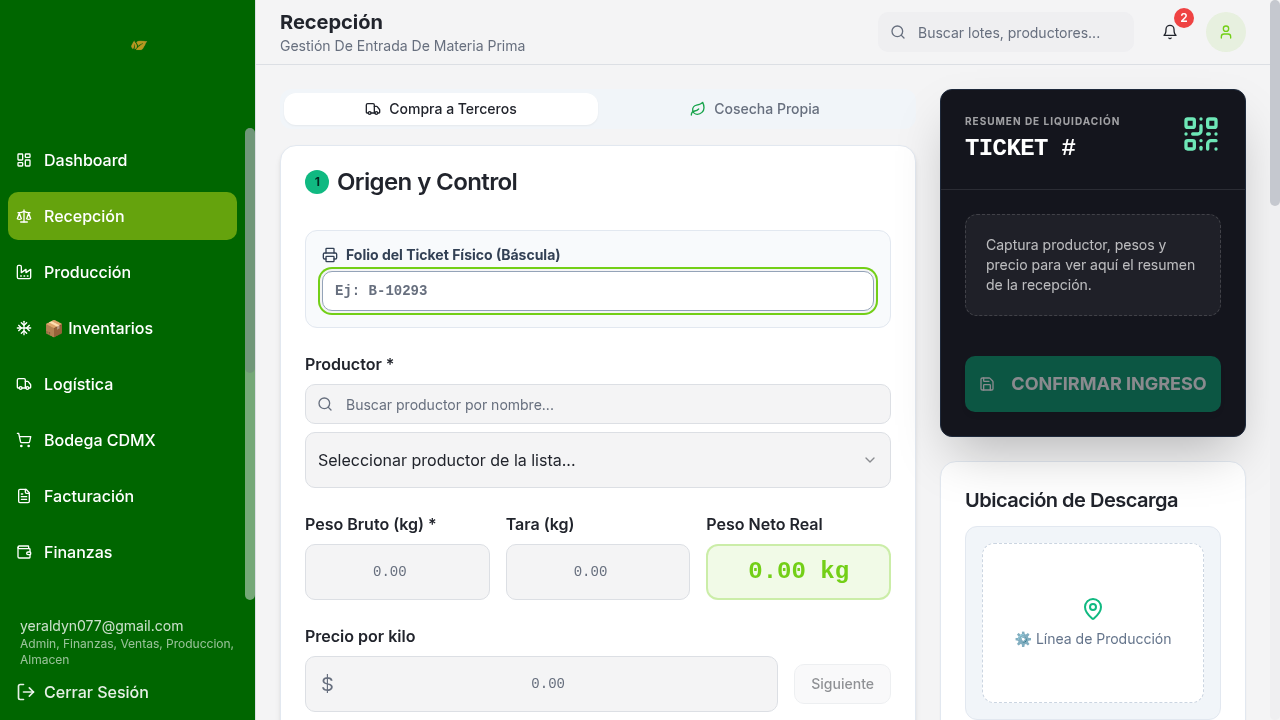
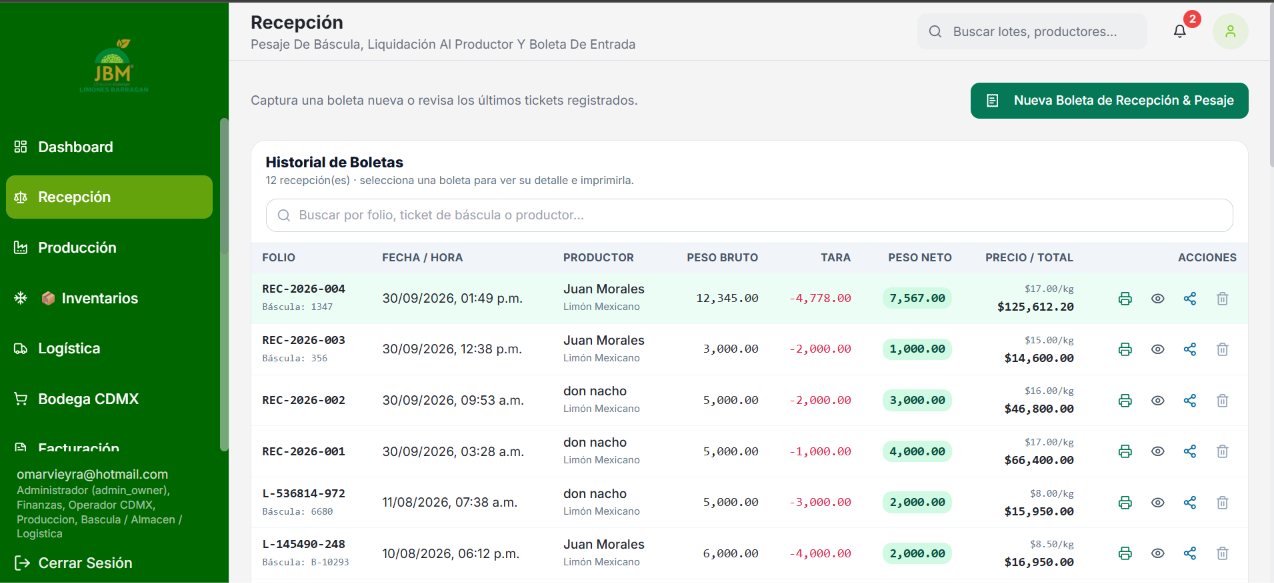
Can12QR

diff --git a/src/pages/Logistica.tsx b/src/pages/Logistica.tsx
@@ -28,6 +28,7 @@ import {
   Users, CheckCircle, Clock, Filter, ArrowRight, DollarSign, UserPlus
 } from "lucide-react";
 import { cn } from "@/lib/utils";
+import { urlCartaPorte } from "@/lib/urls";
 import { useToast } from "@/hooks/use-toast";
 import {
   DropdownMenu,
@@ -628,7 +629,7 @@ export default function Logistica() {
       await new Promise(resolve => setTimeout(resolve, 1500));
 
       const nuevoFolio = `CP-${format(new Date(), 'yyyy')}-${Math.floor(Math.random() * 10000).toString().padStart(4, '0')}`;
-      const cartaPorteQrUrl = `https://erp.jbm.com.mx/logistica/carta-porte/${encodeURIComponent(nuevoFolio)}`;
+      const cartaPorteQrUrl = urlCartaPorte(nuevoFolio);
 
       // Crear objeto de Carta Porte
       const nuevaCartaPorte: CartaPorte = {
@@ -809,7 +810,7 @@ export default function Logistica() {
         origen: guia.lugar_origen,
         destino: guia.lugar_destino,
         pesoTotalKg: Number(guia.peso_total || 0),
-        urlValidacion: `https://erp.jbm.com.mx/logistica/carta-porte/${encodeURIComponent(getGuiaFolio(guia))}`,
+        urlValidacion: urlCartaPorte(getGuiaFolio(guia)),
         totalCajas: guia.total_cajas,
         valorMercancia: guia.valor_total,
         temperaturaPrecarga: guia.temperatura_precarga,
@@ -856,7 +857,7 @@ export default function Logistica() {
       origen: guia.lugar_origen,
       destino: guia.lugar_destino,
       pesoTotalKg: Number(guia.peso_total || 0),
-      urlValidacion: `https://erp.jbm.com.mx/logistica/carta-porte/${encodeURIComponent(getGuiaFolio(guia))}`,
+      urlValidacion: urlCartaPorte(getGuiaFolio(guia)),
       totalCajas: guia.total_cajas,
       valorMercancia: guia.valor_total,
       temperaturaPrecarga: guia.temperatura_precarga,
@@ -1082,7 +1083,7 @@ export default function Logistica() {
                   </div>
                   <div className="rounded-xl border bg-white p-3">
                     <QRCodeSVG
-                      value={`https://erp.jbm.com.mx/logistica/carta-porte/${encodeURIComponent(getGuiaFolio(guiaDetalleSeleccionada))}`}
+                      value={urlCartaPorte(getGuiaFolio(guiaDetalleSeleccionada))}
                       size={120}
                       level="M"
                       includeMargin={false}

diff --git a/src/components/recepcion/TicketBascula.test.tsx b/src/components/recepcion/TicketBascula.test.tsx
@@ -133,9 +133,9 @@ describe("TicketBascula", () => {
 });
 
 describe("urlConsultaPago", () => {
-  it("genera la liga del portal con el folio en minúsculas", () => {
+  it("genera la liga del ERP con el folio en minúsculas", () => {
     expect(urlConsultaPago("REC-2026-008", "https://x")).toBe(
-      "https://portal.jbmcitricos.com/status/rec-2026-008"
+      "https://erp.jbm.com.mx/status/rec-2026-008"
     );
   });
 
@@ -159,7 +159,7 @@ describe("formatearResumenCompartirBoleta", () => {
     expect(texto).toContain("🚚 Cargos op. ($0.40/kg): -$4,120.00");
     expect(texto).toContain("💰 *TOTAL A LIQUIDAR: $186,380.00*");
     expect(texto).toContain(
-      "🔗 Consulta tu pago: https://portal.jbmcitricos.com/status/rec-2026-008"
+      "🔗 Consulta tu pago: https://erp.jbm.com.mx/status/rec-2026-008"
     );
     expect(texto).toContain("👷 Operador: Carlos Barragan");
   });
@@ -191,7 +191,7 @@ describe("PapelTicket", () => {
     expect(screen.getByText("FIRMA PRODUCTOR")).toBeInTheDocument();
     expect(screen.getByText(/consulta tu pago/i)).toBeInTheDocument();
     expect(
-      screen.getByText("https://portal.jbmcitricos.com/status/rec-2026-008")
+      screen.getByText("https://erp.jbm.com.mx/status/rec-2026-008")
     ).toBeInTheDocument();
   });
 

diff --git a/src/lib/urls.test.ts b/src/lib/urls.test.ts
@@ -1,0 +1,31 @@
+import { describe, expect, it } from "vitest";
+import {
+  ERP_BASE_URL,
+  urlCartaPorte,
+  urlEstatusRecepcion,
+  urlLote,
+} from "./urls";
+import { ERP_STATUS_BASE, urlConsultaPago } from "./recepcion/textoTicket";
+
+describe("Base única de QR (erp.jbm.com.mx)", () => {
+  it("fija el dominio público del ERP", () => {
+    expect(ERP_BASE_URL).toBe("https://erp.jbm.com.mx");
+  });
+
+  it("construye todas las URLs de QR sobre la misma base", () => {
+    expect(urlEstatusRecepcion("REC-2026-008")).toBe(
+      "https://erp.jbm.com.mx/status/rec-2026-008"
+    );
+    expect(urlLote("abc-123")).toBe("https://erp.jbm.com.mx/lotes/abc-123");
+    expect(urlCartaPorte("CP-2026-0001")).toBe(
+      "https://erp.jbm.com.mx/logistica/carta-porte/CP-2026-0001"
+    );
+  });
+
+  it("deriva el estatus de recepción de la base única", () => {
+    expect(ERP_STATUS_BASE).toBe(`${ERP_BASE_URL}/status`);
+    expect(urlConsultaPago("REC-2026-008", "https://otro/x")).toBe(
+      urlEstatusRecepcion("REC-2026-008")
+    );
+  });
+});

diff --git a/src/lib/recepcion/textoTicket.ts b/src/lib/recepcion/textoTicket.ts
@@ -1,3 +1,4 @@
+import { ERP_BASE_URL, urlEstatusRecepcion } from "../urls";
 import { moneda, type FormaPagoBascula } from "./calculos";
 
 /** Ancho de papel térmico del ticket. */
@@ -28,8 +29,8 @@ export async function copiarTextoTicket(texto: string): Promise<boolean> {
   }
 }
 
-/** Portal público del productor para consultar estatus de pago y PDF. */
-export const PORTAL_STATUS_BASE = "https://portal.jbmcitricos.com/status";
+/** Base del estatus de pago y PDF del productor, sobre el ERP público. */
+export const ERP_STATUS_BASE = `${ERP_BASE_URL}/status`;
 
 /** URL de validación en línea del ticket (QR + mensajes). */
 export function urlConsultaPago(
@@ -37,7 +38,7 @@ export function urlConsultaPago(
   respaldo?: string
 ): string {
   const folio = (folioOficial ?? "").trim();
-  if (folio) return `${PORTAL_STATUS_BASE}/${folio.toLowerCase()}`;
+  if (folio) return urlEstatusRecepcion(folio);
   return (respaldo ?? "").trim();
 }
 

diff --git a/src/lib/urls.ts b/src/lib/urls.ts
@@ -1,0 +1,22 @@
+/**
+ * URLs públicas del ERP.
+ *
+ * `ERP_BASE_URL` es la dirección base obligatoria de TODOS los códigos
+ * QR que genera el sistema (recepción, trazabilidad, carta porte).
+ * Ningún QR debe construirse con otro host ni con `window.location`.
+ */
+
+/** Dominio público del ERP. */
+export const ERP_BASE_URL = "https://erp.jbm.com.mx";
+
+/** Estatus de pago / descarga de PDF de una boleta de recepción. */
+export const urlEstatusRecepcion = (folioOficial: string): string =>
+  `${ERP_BASE_URL}/status/${folioOficial.trim().toLowerCase()}`;
+
+/** Expediente público de un lote (trazabilidad). */
+export const urlLote = (idOrNumero: string): string =>
+  `${ERP_BASE_URL}/lotes/${idOrNumero}`;
+
+/** Validación en línea de una carta porte. */
+export const urlCartaPorte = (folio: string): string =>
+  `${ERP_BASE_URL}/logistica/carta-porte/${encodeURIComponent(folio)}`;

diff --git a/src/pages/Recepcion.tsx b/src/pages/Recepcion.tsx
@@ -46,6 +46,7 @@ import {
   copiarTextoTicket,
   formatearResumenCompartirBoleta,
 } from "@/lib/recepcion/textoTicket";
+import { urlLote } from "@/lib/urls";
 import {
   TicketBascula,
   type TicketRecepcion,
@@ -125,7 +126,7 @@ const ticketRecienteABoleta = (t: TicketReciente): TicketRecepcion => ({
   total: t.total,
   precioNetoEfectivo: t.precioNetoEfectivo,
   fecha: formatearFechaHora(new Date(t.fechaRecepcion)),
-  statusUrl: `${window.location.origin}/lotes/${t.id}`,
+  statusUrl: urlLote(t.id),
   borrador: false,
 });
 
@@ -257,7 +258,7 @@ export default function Recepcion() {
           total: res.total_liquidar,
           precioNetoEfectivo: payload.resumen.precioNetoEfectivo,
           fecha: formatearFechaHora(new Date()),
-          statusUrl: `${window.location.origin}/lotes/${res.id}`,
+          statusUrl: urlLote(res.id),
           borrador: false,
         };
 

diff --git a/src/components/trazabilidad/QRGenerator.tsx b/src/components/trazabilidad/QRGenerator.tsx
@@ -4,6 +4,7 @@ import { Button } from "@/components/ui/button";
 import { Card, CardContent, CardHeader, CardTitle } from "@/components/ui/card";
 import { Download } from "lucide-react";
 import logoJBM from "@/assets/logo-jbm.png";
+import { urlLote } from "@/lib/urls";
 
 interface QRGeneratorProps {
   numeroLote: string;
@@ -13,8 +14,8 @@ interface QRGeneratorProps {
 export function QRGenerator({ numeroLote, size = 200 }: QRGeneratorProps) {
   const qrRef = useRef<HTMLDivElement>(null);
   
-  // URL de trazabilidad (puede ser la URL de tu app en producción)
-  const traceUrl = `${window.location.origin}/lotes/${numeroLote}`;
+  // URL de trazabilidad sobre el ERP público (base única de QR).
+  const traceUrl = urlLote(numeroLote);
 
   const handleDownload = () => {
     if (!qrRef.current) return;

diff --git a/src/pages/Recepcion.historial.test.tsx b/src/pages/Recepcion.historial.test.tsx
@@ -292,7 +292,7 @@ describe("Recepcion: historial de boletas", () => {
     const texto = String(writeText.mock.calls[0][0]);
     expect(texto).toContain("🧾");
     expect(texto).toContain("TOTAL A LIQUIDAR");
-    expect(texto).toContain("portal.jbmcitricos.com/status/rec-2026-008");
+    expect(texto).toContain("erp.jbm.com.mx/status/rec-2026-008");
   });
 
   it("elimina una boleta offline en dos pasos", async () => {
